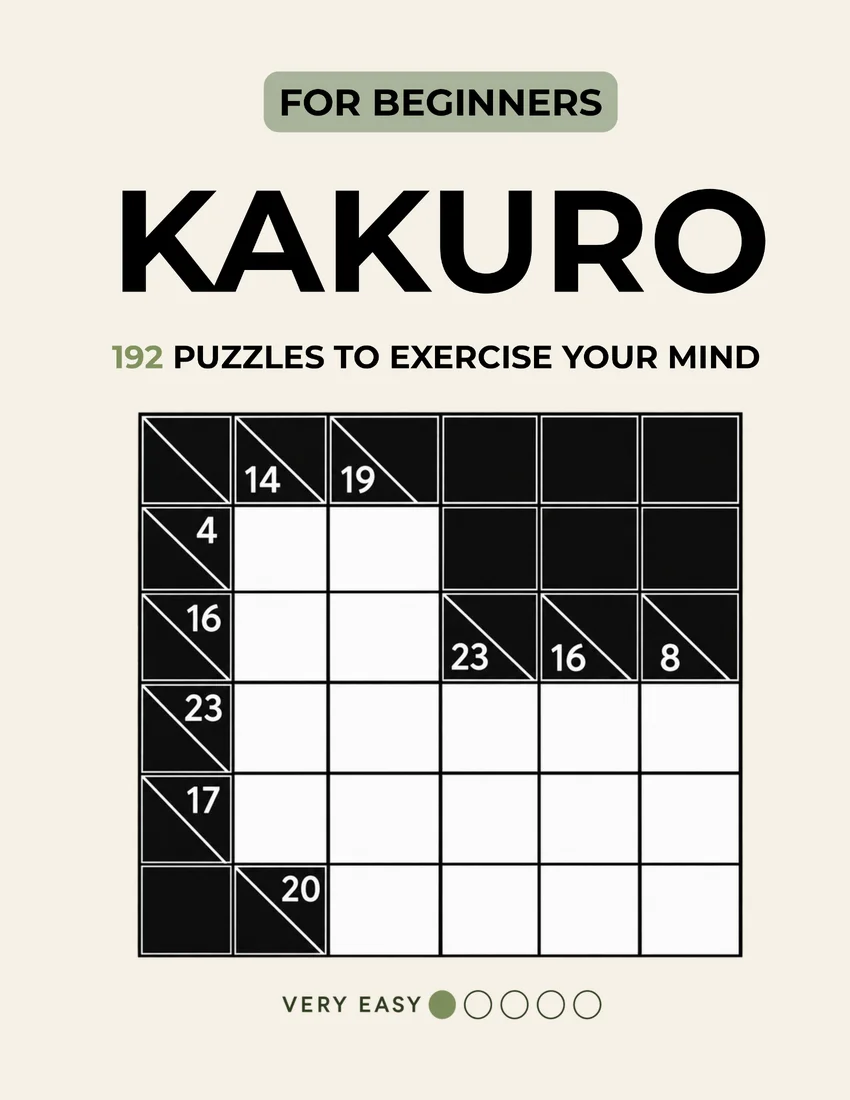
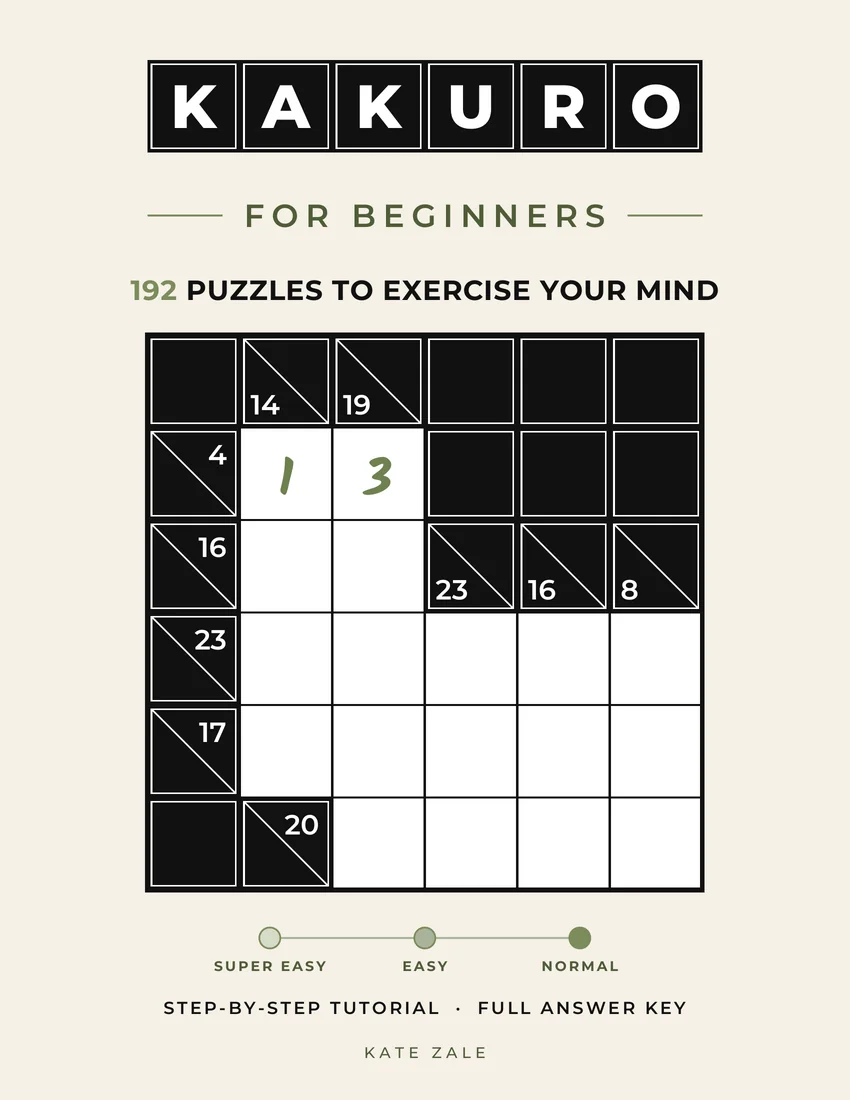
Katalog: plakietka Hardcover, nowa okladka Kakuro, jednostka formatu w jezyku strony
- Karta ksiazki: plakietka "Hardcover" dla ksiazek w twardej oprawie (Gift Edition, Geschenkausgabe)
- Kakuro EN: okladka z okladka.pdf (KAKURO / FOR BEGINNERS, trzy poziomy)
- Format w calach wg jezyka strony (cala / Zoll / in); ksiazki DE mialy polskie "cala"
- /en/books: usuniete zdanie o pierwszym tytule po angielsku

Changed region(s): [[0.1224, 0.0309, 0.9176, 0.9273]]

diff --git a/data/books.ts b/data/books.ts
@@ -486,7 +486,7 @@ export const books: Book[] = [
     coverImage: '/covers/meine-ersten-wortsuchratsel-stufe-1.webp',
     amazonUrl: 'https://amzn.eu/d/06ffGySu',
     featured: true,
-    formatInches: '8,5 × 11 cala',
+    formatInches: '8,5 × 11 Zoll',
     pageCount: 108,
     isbn: '978-83-981441-5-5',
     samplePages: [1, 2, 3, 4, 5, 6, 7, 8].map((n) => `/samples/meine-ersten-wortsuchratsel-stufe-1/${n}.webp`),
@@ -516,7 +516,7 @@ export const books: Book[] = [
     coverImage: '/covers/meine-ersten-wortsuchratsel-stufe-2.webp',
     amazonUrl: 'https://amzn.eu/d/0cmPID9O',
     featured: true,
-    formatInches: '8,5 × 11 cala',
+    formatInches: '8,5 × 11 Zoll',
     pageCount: 108,
     isbn: '978-83-981441-6-2',
     samplePages: [1, 2, 3, 4, 5, 6, 7, 8].map((n) => `/samples/meine-ersten-wortsuchratsel-stufe-2/${n}.webp`),
@@ -545,7 +545,7 @@ export const books: Book[] = [
     coverImage: '/covers/sudoku-grossdruck-100.webp',
     amazonUrl: 'https://www.amazon.de/dp/839829938X',
     featured: false,
-    formatInches: '8,5 × 11 cala',
+    formatInches: '8,5 × 11 Zoll',
     pageCount: 96,
     isbn: '978-83-982993-8-1',
     samplePages: [1, 2, 3, 4, 5, 6, 7, 8].map((n) => `/samples/sudoku-grossdruck-100/${n}.webp`),
@@ -576,7 +576,7 @@ export const books: Book[] = [
     coverImage: '/covers/sudoku-grossdruck-103.webp',
     amazonUrl: 'https://www.amazon.de/dp/839839014X',
     featured: false,
-    formatInches: '8,25 × 11 cala',
+    formatInches: '8,25 × 11 Zoll',
     hardcover: true,
     pageCount: 122,
     isbn: '978-83-983901-4-9',

diff --git a/components/BookDetail.tsx b/components/BookDetail.tsx
@@ -5,6 +5,16 @@ import { CATALOG_STRINGS, canonicalBookHref, type SiteLang } from '@/lib/catalog
 import { SITE_URL } from '@/lib/site';
 import SamplePreview, { IconEye } from '@/components/SamplePreview';
 
+// Format w calach w języku strony, a nie książki (np. polska książka na stronie DE → „Zoll”).
+const INCH_UNIT: Record<SiteLang, string> = { pl: 'cala', de: 'Zoll', en: 'in' };
+
+function localizedInches(formatInches: string, siteLang: SiteLang) {
+  const [w, h] = formatInches.match(/\d+(?:[.,]\d+)?/g) ?? [];
+  if (!w || !h) return formatInches;
+  const num = (n: string) => (siteLang === 'en' ? n.replace(',', '.') : n.replace('.', ','));
+  return `${num(w)} × ${num(h)} ${INCH_UNIT[siteLang]}`;
+}
+
 export default function BookDetail({ book, siteLang }: { book: Book; siteLang: SiteLang }) {
   const t = CATALOG_STRINGS[siteLang];
   const levelLinks = book.forWhom
@@ -110,7 +120,7 @@ export default function BookDetail({ book, siteLang }: { book: Book; siteLang: S
                 {book.hardcover ? '21 × 27,9 cm' : '21,6 × 27,9 cm'}
               </dd>
               <p className="mt-[5px] text-[12.5px] text-ink/[0.58]">
-                {book.formatInches} ·{' '}
+                {localizedInches(book.formatInches, siteLang)} ·{' '}
                 {book.hardcover ? t.detail.formatNoteHardcover : t.detail.formatNote}
               </p>
             </div>

diff --git a/app/en/books/page.tsx b/app/en/books/page.tsx
@@ -22,11 +22,6 @@ export default function BooksEn() {
     <section className="px-4 py-12 sm:px-6 sm:py-16">
       <div className="mx-auto max-w-5xl">
         <h1 className="font-display text-3xl font-800 text-navy sm:text-4xl">Books</h1>
-        <p className="mt-3 max-w-2xl text-ink/70">
-          Choose the audience, category and difficulty — we&apos;ll help you find the right
-          one. Our first English title is out — the rest of the catalog is in Polish and
-          German for now.
-        </p>
         <div className="mt-10">
           <BookCatalog books={books} siteLang="en" />
         </div>

diff --git a/components/BookCard.tsx b/components/BookCard.tsx
@@ -27,6 +27,11 @@ export default function BookCard({
               {LANG_LABELS[book.lang]}
             </span>
           )}
+          {book.hardcover && (
+            <span className="rounded-full bg-green px-3 py-1 text-xs font-bold text-white">
+              {t.detail.bindingHardcover}
+            </span>
+          )}
         </span>
         {book.comingSoon && (
           <span className="absolute right-4 top-4 z-10 rounded-full bg-orange px-3 py-1 text-xs font-bold text-white">
